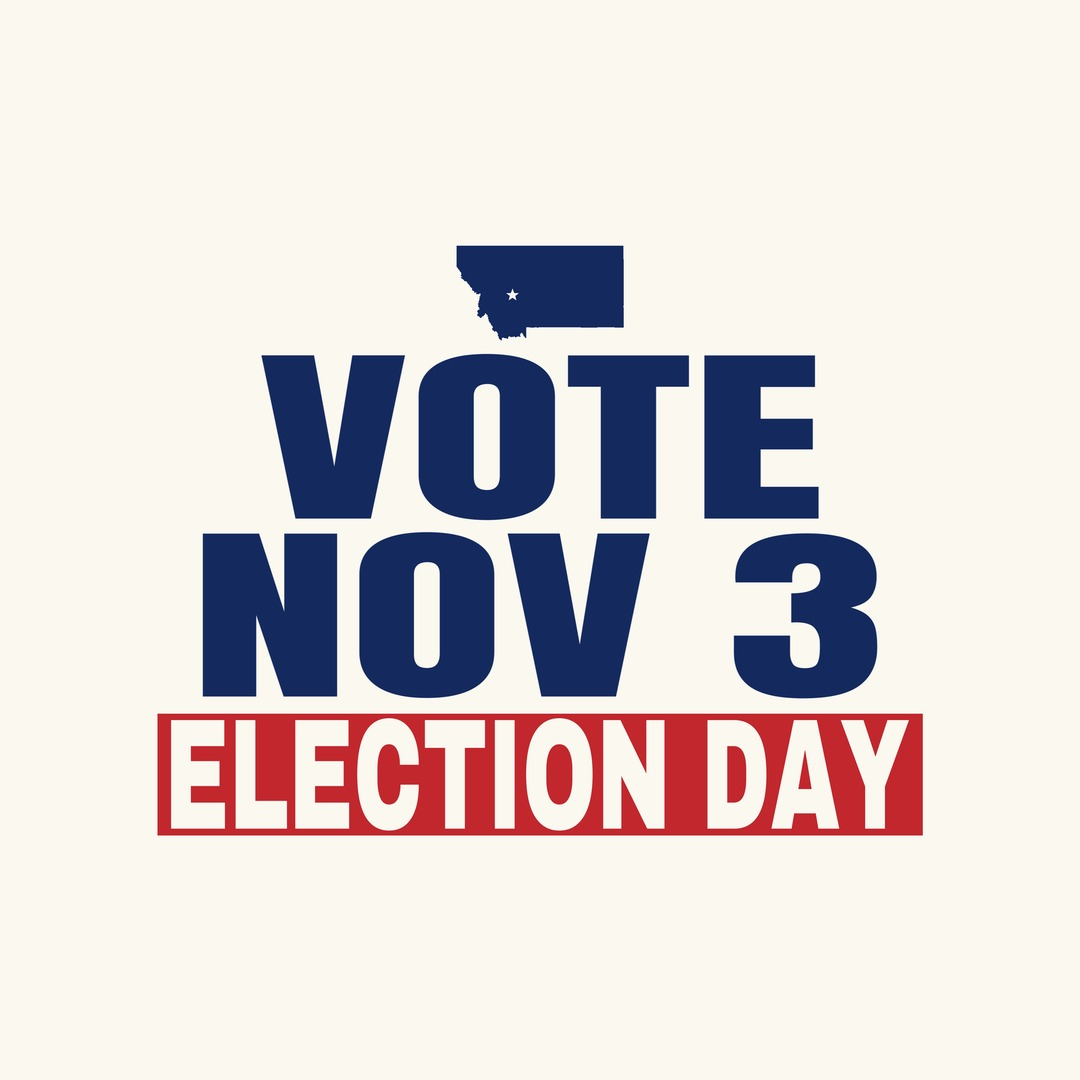
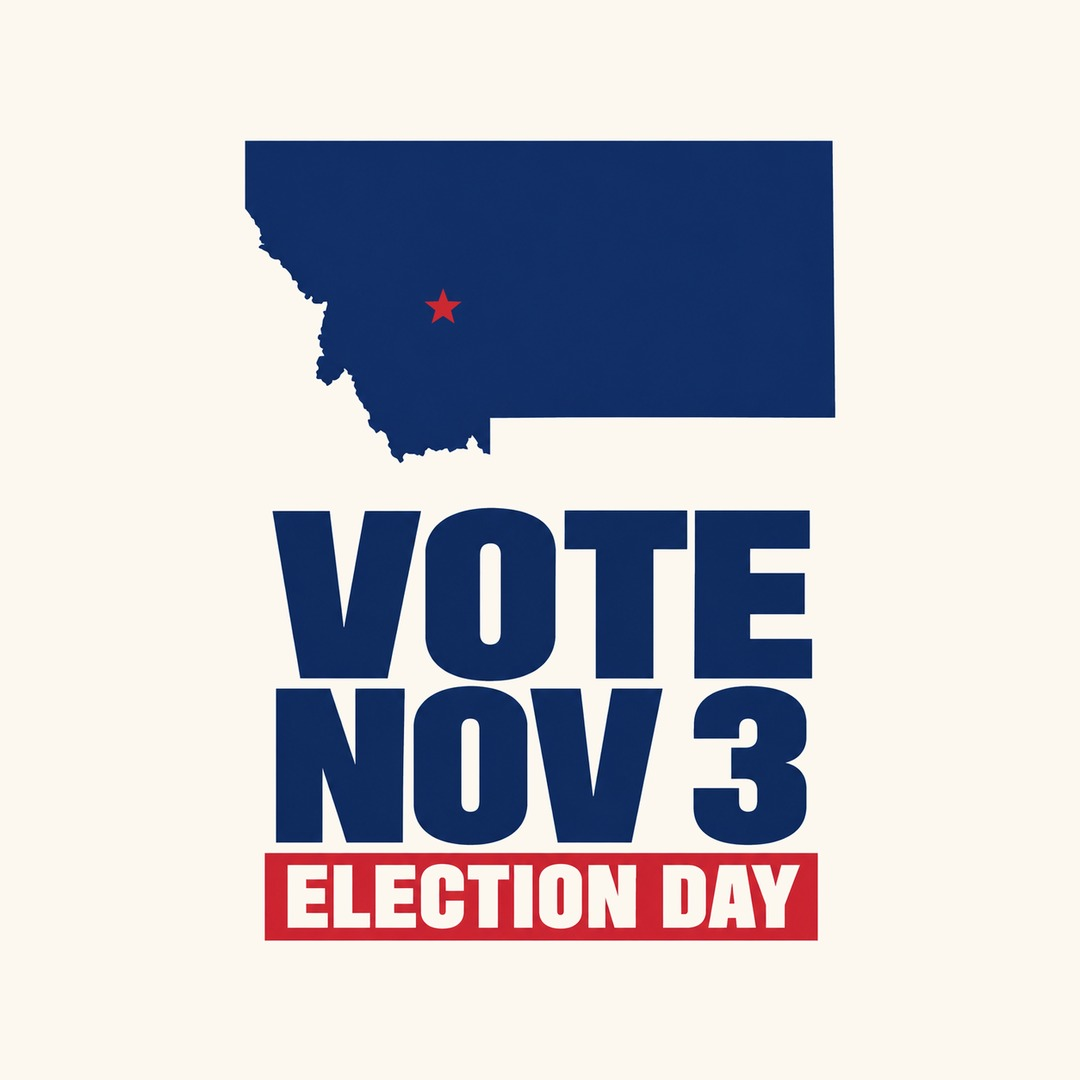
Montana: 10 new ready-mades from Codex; retire the earlier set
Claude-Session: https://claude.ai/code/session_01U4jJBSt3CnGjJYrtPzNn5q

Changed region(s): [[0.1222, 0.1222, 0.8556, 0.8861]]

diff --git a/site/index.php b/site/index.php
@@ -83,7 +83,7 @@ function vote_files( $abbr ) {
 
 // The state hero shows one standout ready-made, tilted (October 20, Garrett): the design named here,
 // or the first in the set. Numbers match <abbr>-vote-N.jpg.
-const VOTE_HERO = array( 'MS' => 5, 'MI' => 7, 'ID' => 7, 'NJ' => 5, 'OR' => 5, 'MN' => 6, 'NE' => 6, 'AL' => 6, 'AZ' => 6, 'CT' => 7, 'DE' => 5, 'GA' => 5, 'FL' => 5, 'HI' => 6, 'IL' => 8, 'AR' => 6, 'IN' => 5, 'KY' => 8, 'ME' => 6, 'LA' => 6, 'IA' => 8, 'MA' => 5 );
+const VOTE_HERO = array( 'MS' => 5, 'MI' => 7, 'ID' => 7, 'NJ' => 5, 'OR' => 5, 'MN' => 6, 'NE' => 6, 'AL' => 6, 'AZ' => 6, 'CT' => 7, 'DE' => 5, 'GA' => 5, 'FL' => 5, 'HI' => 6, 'IL' => 8, 'AR' => 6, 'IN' => 5, 'KY' => 8, 'ME' => 6, 'LA' => 6, 'IA' => 8, 'MA' => 5, 'MT' => 5 );
 function vote_hero_file( $abbr ) {
 	$n = VOTE_HERO[ $abbr ] ?? 0;
 	$k = strtolower( $abbr );
